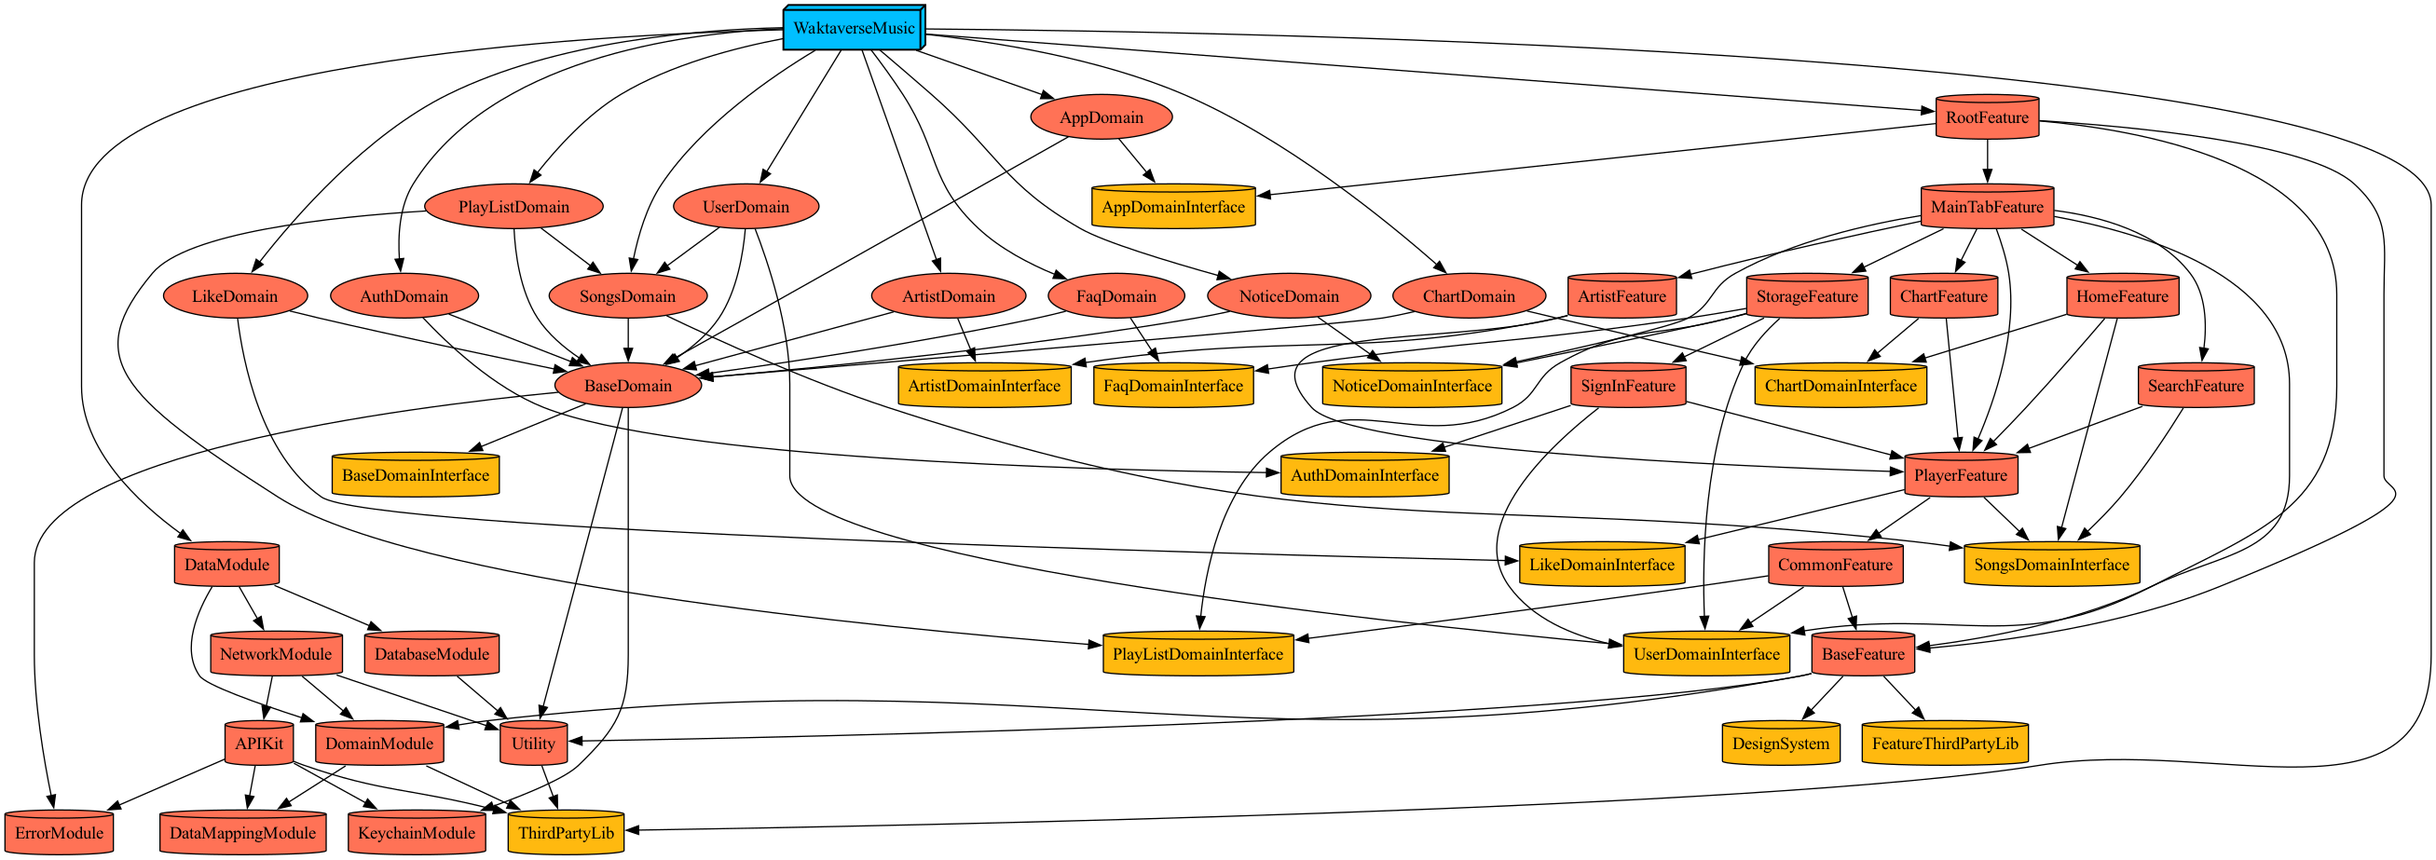
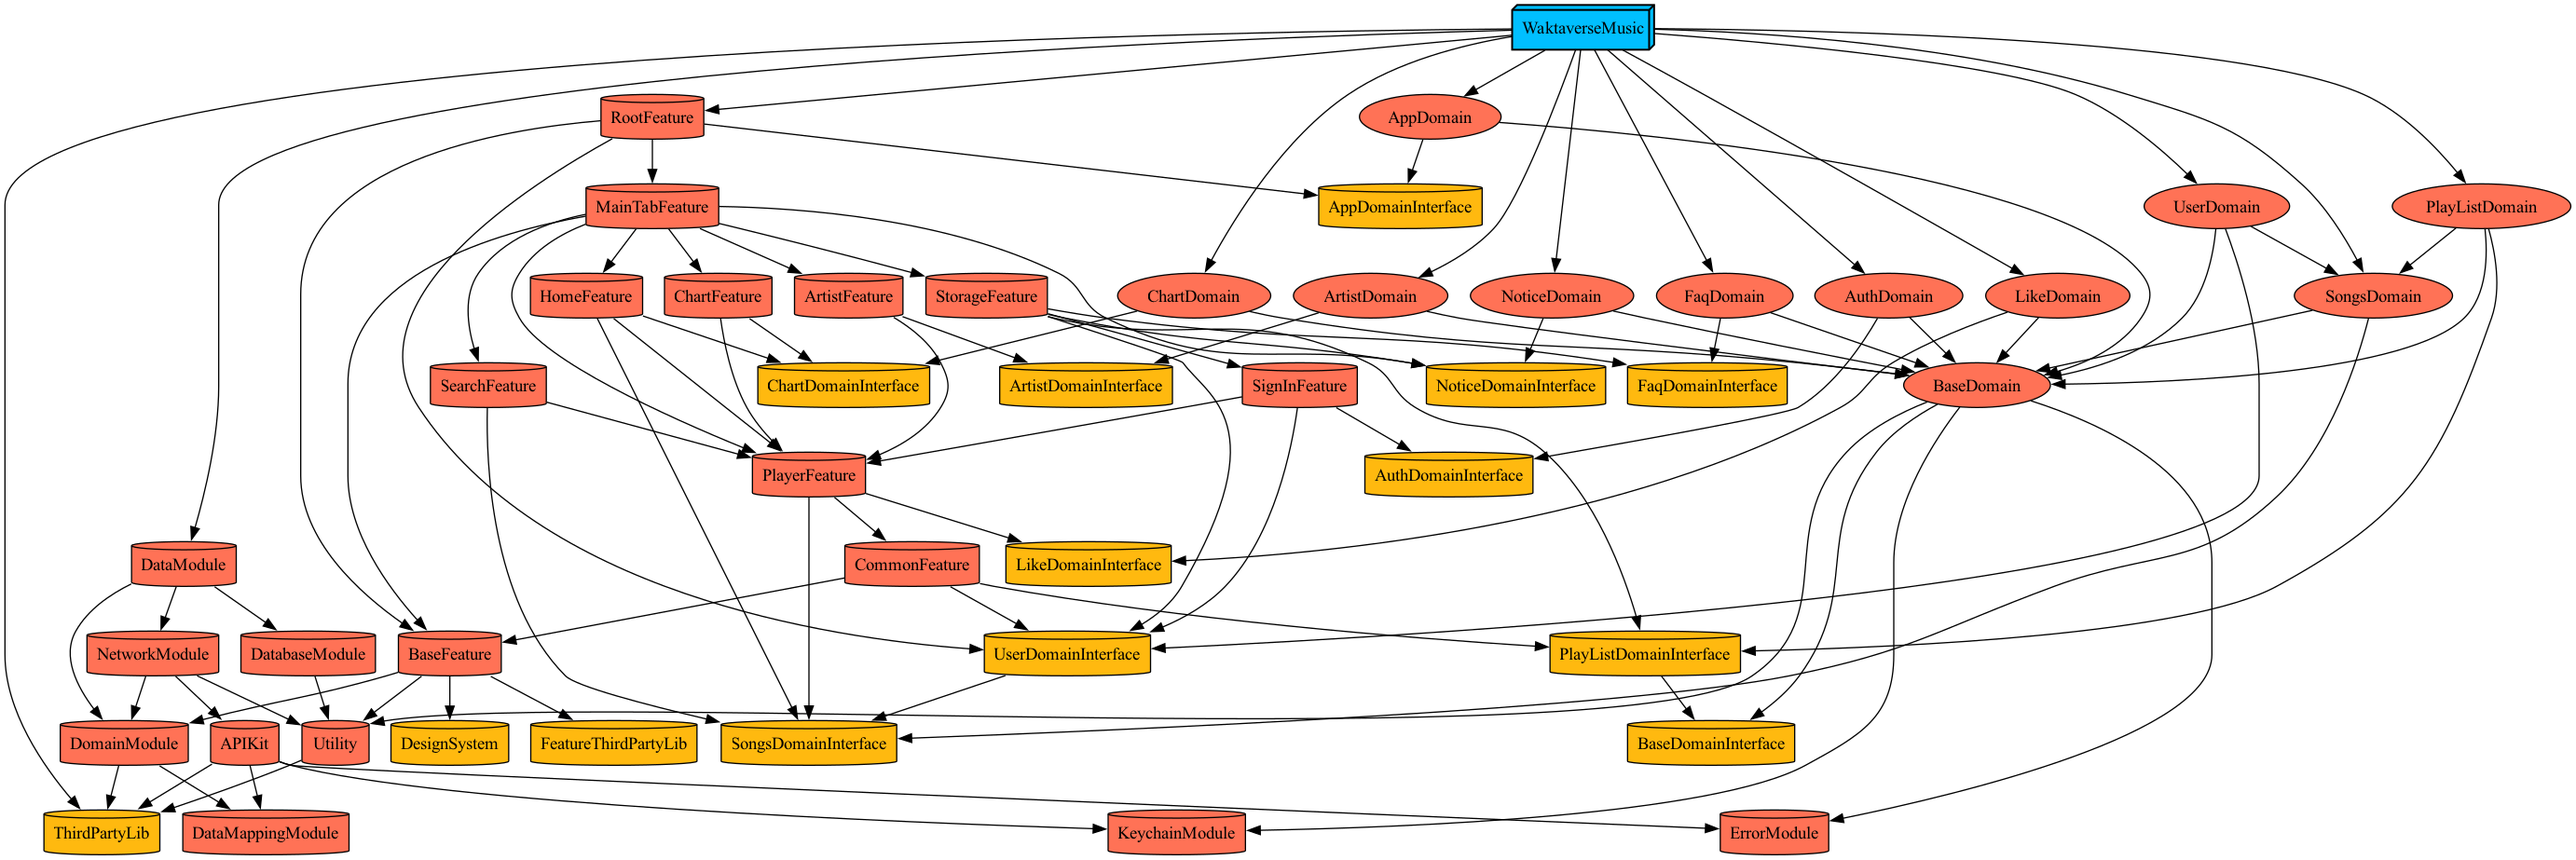
🐛 :: [#470] 누락된 디펜던시 추가

diff --git a/Projects/Domains/PlayListDomain/Project.swift b/Projects/Domains/PlayListDomain/Project.swift
@@ -5,7 +5,12 @@ import ProjectDescriptionHelpers
 let project = Project.module(
     name: ModulePaths.Domain.PlayListDomain.rawValue,
     targets: [
-        .interface(module: .domain(.PlayListDomain)),
+        .interface(
+            module: .domain(.PlayListDomain),
+            dependencies: [
+                .domain(target: .BaseDomain, type: .interface)
+            ]
+        ),
         .implements(
             module: .domain(.PlayListDomain),
             dependencies: [

diff --git a/Projects/Domains/UserDomain/Project.swift b/Projects/Domains/UserDomain/Project.swift
@@ -5,7 +5,12 @@ import ProjectDescriptionHelpers
 let project = Project.module(
     name: ModulePaths.Domain.UserDomain.rawValue,
     targets: [
-        .interface(module: .domain(.UserDomain)),
+        .interface(
+            module: .domain(.UserDomain),
+            dependencies: [
+                .domain(target: .SongsDomain, type: .interface)
+            ]
+        ),
         .implements(
             module: .domain(.UserDomain),
             dependencies: [
